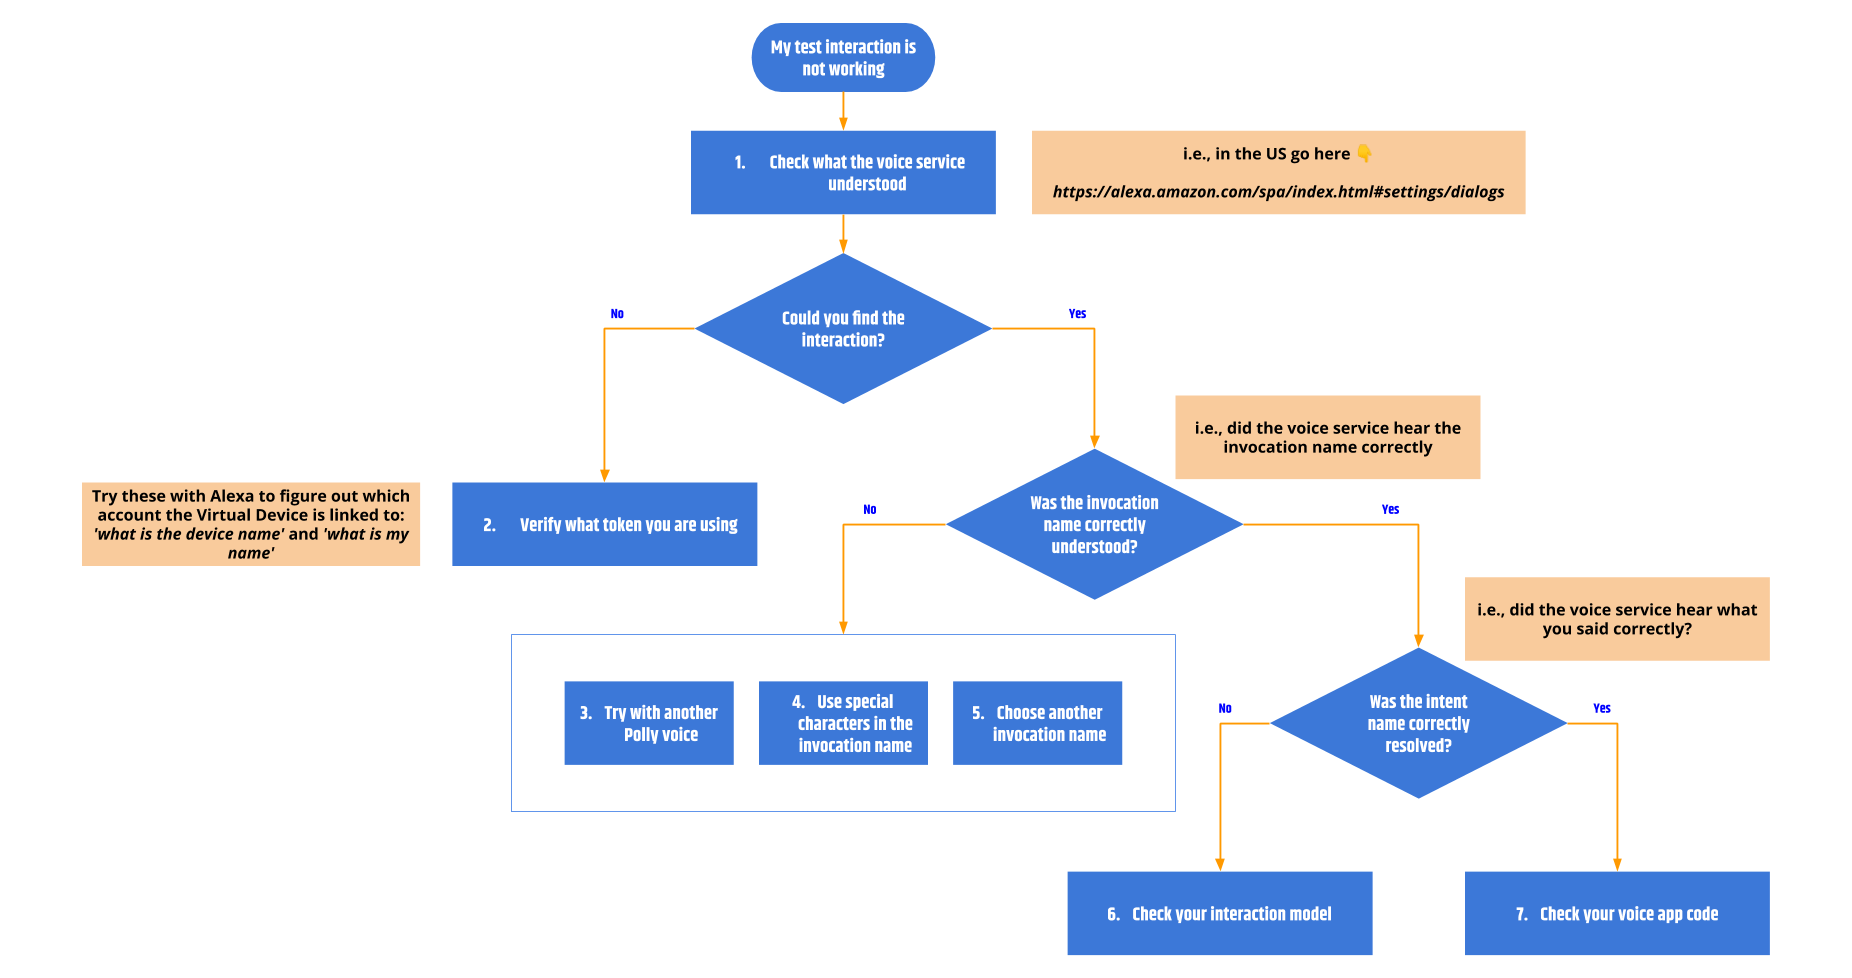
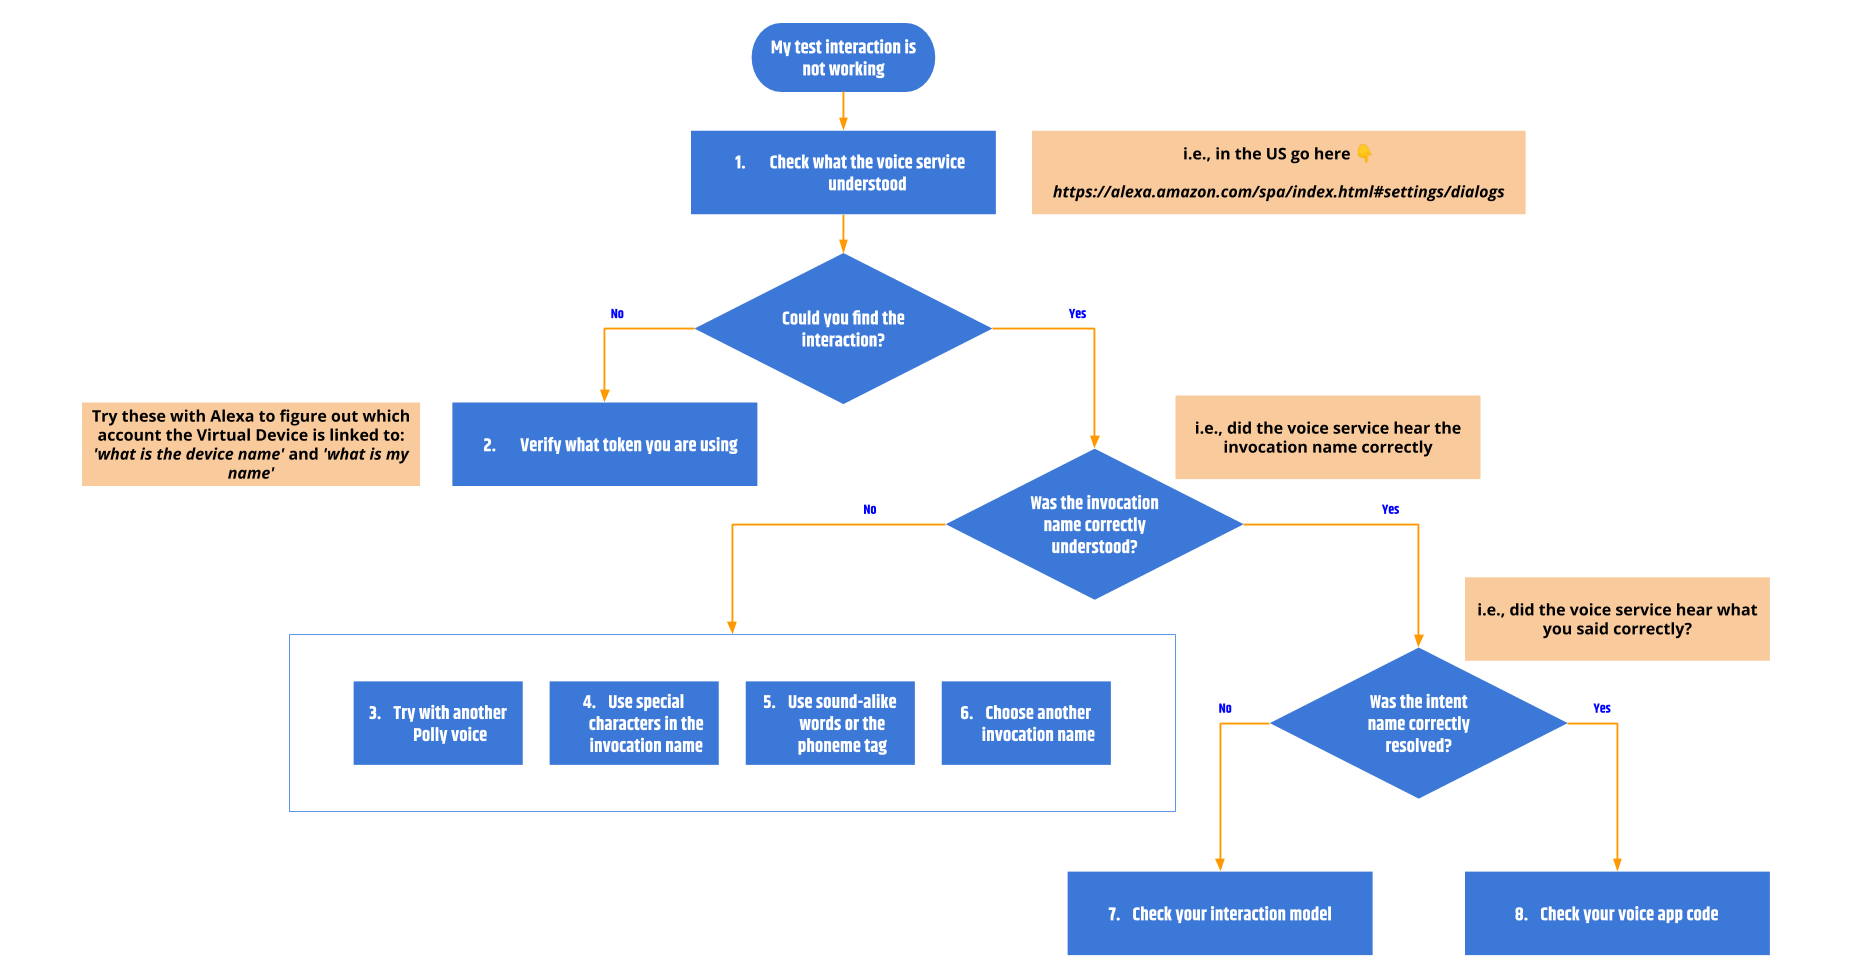
Updating the FAQ showing how to use the phoneme tag

Changed region(s): [[0.0308, 0.3988, 0.4617, 0.5828], [0.1847, 0.6748, 0.6156, 0.7975]]

diff --git a/end-to-end/faq.md b/end-to-end/faq.md
@@ -206,24 +206,30 @@ Perhaps you are trying to run a monitoring script (or just executing an end-to-e
 ![Showing monitoring odd result][MonitoringOddResult]
 What is going on here? Let's follow this workflow to troubleshoot the problem:
 ![Workflow to troubleshoot test script issues][TroubleshootingWorkflow]
-1. **Check what the voice service understood:** First thing is to know if the voice service is understanding correctly what you said in your test script. In the image above our utterance is "ask my skill to tell me a joke". Let's see what did the voice service understood. As this is an Alexa skill you can check the interactions history page. For this, navigate to the Alexa dashboard page logging in with the same account you used when you created the Bespoken Virtual Device token used in your test script. Then go to "Settings - History" in the left menu.
+1. **Check what the voice service understood:** First thing is to know if the voice service is understanding correctly what you said in your test script. In the image above our utterance is "ask my skill to tell me a joke". Let's see what did the voice service understood. As this is an Alexa skill, check the interactions history page (navigate to the Alexa dashboard, log in with the same account used to create the Bespoken Virtual Device token used in your test script, go to "Settings - History" in the left menu).
 ![Alexa interactions history][AlexaInteractionsHistory]
 >Note:  Take into account that the Alexa page changes depending on the geography, for example, for the US go to alexa.amazon.com, for Germany go to alexa.amazon.de. 
 
-2. **Verify what token you are using**: If you can't locate the associated interaction in the history page, that means you probably have logged in with a different account than the one used to create the Bespoken Virtual Device used in your test script, it is like you are sending the utterance to another echo device. Please use the Amazon account associated with the selected token in your test scripts. If you have created several virtual devices and you are not sure which one is being used, you can ask to the voice service like in the image below.
+2. **Verify what token you are using**: If you can't locate the interaction in the history page, that means you probably have logged in with a different account than the one used to create the Bespoken Virtual Device used in your test script, it is like you are sending the utterance to other echo device. Please use the Amazon account associated with the selected token in your test scripts. If you have created several virtual devices and you are not sure which one is being used, ask the voice service by sending the utterance 'what is this device name' or 'what is my name'.
 ![What is this device][WhichDeviceIsThis]
 
-3. **Try another Polly voice**: If you are able to locate the utterance in the history of interactions and the voice service is wrongly understand it, then we have a speech recognition problem, and if the problem is located in the invocation name, that explains why the voice service can't determine which skill to launch responding "Sorry, I don't know that" instead of invoking your skill.
+3. **Try another Polly voice**: If you are able to locate the utterance in the history of interactions and the voice service is wrongly understand it, then we have a speech recognition problem, and if the problem is located in the invocation name, that explains why the voice service can't determine which skill to launch responding "Sorry, I don't know that" instead of invoking the skill.
 ![Invocation name speech recognition problem][InnvocationNameSRP]
-In the above image (not a real case), Alexa is wrongly understanding "my skill". Why is that? ... Well, we use Amazon Polly voices to transform the text utterance from your test script into speech, that is not perfect and sometimes the voice service might understand wrong. One way to troubleshoot this issue is going to the AWS Polly console and play around with the different available voices, listen how they pronounce your voice app's invocation name and select the one you think sounds best. By default, we use the "Joey" voice for en-US locale, which in general provides good results.
+In the above image (not a real case), Alexa is wrongly understanding "my skill". Why is that? ... Because several reasons, just think in the myriad of combinations of accents, background noises and idiomatic variations your voice app can receive from your users. Voice services keep improving their ASR and NLU every day, but they are not perfect. In our case, we use Amazon Polly voices to transform the text utterance from your test script into speech, and sometimes, like in real life, the voice service might understand wrong. One way to troubleshoot this is going to the AWS Polly console and play around with the different available voices, listen how they pronounce your voice app's invocation name and select the one you think sounds best. By default, we use the "Joey" voice for en-US locale, which in general provides good results. But keep in mind that if you listen to the generated speech and sounds good to you, but the voice service is not understanding correctly, [you might have a serious problem that can become a reality once you publish your skill](https://medium.com/swlh/i-just-shut-down-my-startup-heres-what-i-learned-2a57c0e98090). If that is the case, consider using a different invocation name and be sure is correctly understood in one-shot and multi-step utterances.
 
-4. **Use special characters in the invocation name**: Let's image the invocation name you have selected is ABE, but the voice service is interpreting as the short name for Abraham. To avoid this you can add special characters to it, for example, "A-B-E" or "A.B.E."
+4. **Use special characters in the invocation name**: Let's image the invocation name you have selected is ABE, but the voice service is interpreting it as the short name for Abraham. To avoid this you can add special characters to it, for example, "A-B-E" or "A.B.E."
 
-5. **Choose another invocation name**: In case you have tried several things and the problem persists, we recommend to select another invocation name that provides better results.
+5. **Use sound-alike words or the phoneme tag**: This is a good way to overcome speech recognition issues with your invocation name when writing test scripts. You can start by using sound-alike words. For example, let's imagine you invoke your voice app like this "open pikachu facts", you can use "open peak at choo facts" as invocation name in your scripts if you are having speech recognition problems. If that doesn't solve the issue you can try using [the `phoneme` tag](https://docs.aws.amazon.com/polly/latest/dg/supportedtags.html#phoneme-tag). An example will make it more clear to understand. We have a skill which can be invoked with a one-shot utterance like "ask who's the boss to play episode 3 season 4 on main screen", sadly Alexa is hearing "ask who's the bounce to play episode 3 season 4 on main screen" and we are getting "sorry, I don't know that" in return. This certainly might happen with some of your user's accents. To resolve this problem you can use the phoneme tag like this:
+```
+<speak>ask who's the <phoneme alphabet="ipa" ph="/bɒss/">boss</phoneme> to play episode 3 season 4 on main screen.</speak>
+```
+Adding an extra "s" with the phoneme tag makes it more clear, and Alexa can properly understand the invocation name. Use Amazon Polly console, a [phonetic transcription software](https://www.phonetizer.com/ui), and a [phonetic alphabet](https://docs.aws.amazon.com/polly/latest/dg/ph-table-english-us.html) to help you create the appropriate SSML code for your specific case.
 
-6. **Check your interaction model**: It might happen that the voice service is correctly invoking your voice app but a wrong intent is requested making the full interaction to fail. In this case, the problem might be located in your interaction model. If this is your case, please check if you have provided enough sample utterances and update it accordingly.
+6. **Choose another invocation name**: In case you have tried several things and the problem persists, we recommend to select another invocation name that provides better results.
 
-7. **Check your voice app code**: In case the voice service is correctly recognizing the invocation name, and the appropriate intent is being hit, but even though you are getting an unexpected response it is probably that the problem resides in your voice app's backend. Please check your app's code. For this, we suggest using unit test scripts with a debugger to easily and quickly spot the issue. Read [here](https://read.bespoken.io/unit-testing/faq/#how-do-i-use-the-debugger-with-bespoken-unit-tests-and-visual-studio) to know how.
+7. **Check your interaction model**: It might happen that the voice service is correctly invoking your voice app but a wrong intent is requested making the full interaction to fail. In this case, the problem might be located in your interaction model. If this is your case, please check if you have provided enough sample utterances and update it accordingly.
+
+8. **Check your voice app code**: In case the voice service is correctly recognizing the invocation name, and the appropriate intent is being hit, but even though you are getting an unexpected response it is probably that the problem resides in your voice app's backend. Please check your app's code. For this, we suggest using unit test scripts with a debugger to easily and quickly spot the issue. Read [here](https://read.bespoken.io/unit-testing/faq/#how-do-i-use-the-debugger-with-bespoken-unit-tests-and-visual-studio) to know how.
 
 If you need assistance, please talk to us through the chat widget at the lower right-hand corner of our [Dashboard](https://apps.bespoken.io/dashboard/) or [Website](https://bespoken.io/).
 
